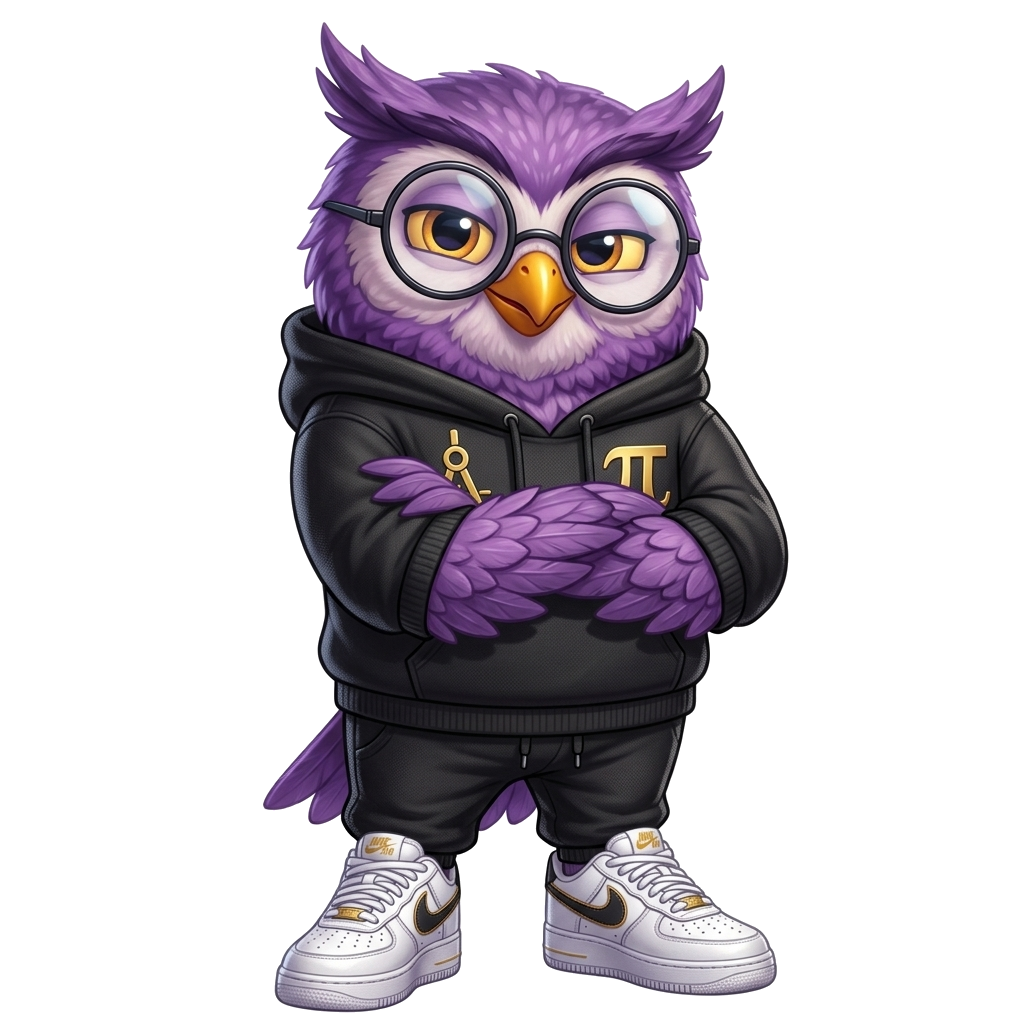
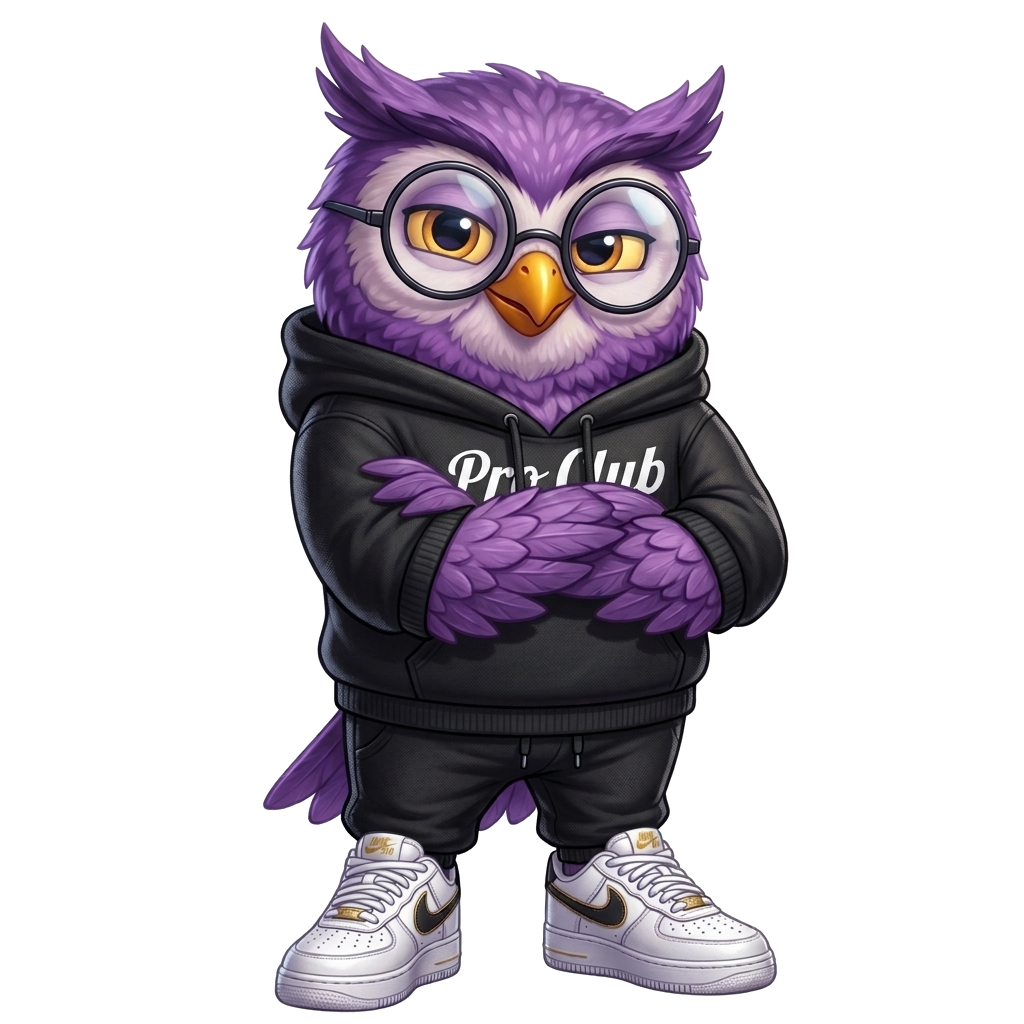
feat: add all 4 formative assessment slides to presentation, protect confidential differentiation, and update pro club owl

Changed region(s): [[0.4062, 0.4062, 0.6562, 0.5]]

diff --git a/src/components/LessonPlanViewer.jsx b/src/components/LessonPlanViewer.jsx
@@ -127,6 +127,7 @@ const LessonPlanViewer = ({ plan, weekPlans, viewerPin, adminName }) => {
     
     // Parse direct instruction and replace bold text with blanks
     let notesContent = plan.direct_instruction || 'No notes provided.';
+    notesContent = notesContent.split(/##+\s*(?:Tiered\s+)?Differentiation/i)[0].trim();
     notesContent = renderMath(notesContent);
     // Convert markdown to HTML but replace **bold** with fill in the blank lines
     
@@ -398,7 +399,8 @@ const LessonPlanViewer = ({ plan, weekPlans, viewerPin, adminName }) => {
         x: 0.8, y: 1.3, w: 8.4, h: 0.4,
         fontSize: 13, italic: true, color: COLOR_MUTED
       });
-      const doNowText = cleanMathText(p.do_now || 'Complete the Do Now on the board.');
+      const cleanDoNowLines = (p.do_now || 'Complete the Do Now on the board.').split('\n').filter(l => !l.trim().match(/^\*?Answer:/i)).join('\n');
+      const doNowText = cleanMathText(cleanDoNowLines);
       s.addText(doNowText, {
         x: 0.8, y: 1.8, w: 8.4, h: 3.3,
         fontSize: 16, color: COLOR_SLATE, valign: 'top', lineSpacing: 26
@@ -537,29 +539,53 @@ const LessonPlanViewer = ({ plan, weekPlans, viewerPin, adminName }) => {
     // 6. Direct Instruction Slides
     if (p.direct_instruction) {
       let diText = p.direct_instruction;
+      // Strip out any Differentiation and Lesson Purpose from student-facing slides
+      diText = diText.split(/##+\s*(?:Tiered\s+)?Differentiation/i)[0];
+      diText = diText.split(/##+\s*(?:Lesson Purpose|Our Why)/i)[0];
+
       if (p.date_start === '2026-09-21' && !diText.includes('telescope')) {
         diText = diText.replace(/## Direct Instruction\s*---/i, "## Launch: The Telescope\n---\nImagine you are looking at a star through a telescope. The star doesn't change its actual shape, but the lenses inside the telescope *scale* the image up so your eye can see it. Today, we are going to learn how to mathematically build that telescope.\n\n## Direct Instruction\n---");
       }
-      const blocks = diText.split(/(?=## )/);
+      const blocks = diText.split(/(?=##+ )/);
       blocks.forEach(block => {
         if (!block.trim()) return;
         let title = "Direct Instruction";
-        const tm = block.match(/## (.*?)\n/);
+        const tm = block.match(/##+ (.*?)\n/);
         if (tm) {
           title = tm[1].trim();
-          block = block.replace(/## .*?\n/, '');
+          block = block.replace(/##+ .*?\n/, '');
+        }
+        if (title.toLowerCase().includes('differentiation') || block.toLowerCase().includes('differentiation') || title.toLowerCase().includes('lesson purpose') || block.toLowerCase().includes('our why')) {
+          return;
         }
         block = block.replace(/^---\n/, '');
         const cleanContent = cleanMathText(block);
         if (!cleanContent) return;
 
-        const isEx = title.toLowerCase().includes('example');
-        const s = pres.addSlide();
-        addHeader(s, `Direct Instruction: ${title}`, isEx ? '5:00' : null);
-        s.addText(cleanContent, {
-          x: 0.8, y: 1.3, w: 8.4, h: 3.8,
-          fontSize: 15, color: COLOR_SLATE, valign: 'top', lineSpacing: 24
-        });
+        if (cleanContent.match(/\*\*Example\s*1/i) && cleanContent.match(/\*\*Example\s*2/i)) {
+          const exSplit = cleanContent.split(/(?=\*\*Example\s*2)/i);
+          const s1 = pres.addSlide();
+          addHeader(s1, `Direct Instruction: ${title} (Example 1)`, '5:00');
+          s1.addText(exSplit[0].trim(), {
+            x: 0.8, y: 1.3, w: 8.4, h: 3.8,
+            fontSize: 15, color: COLOR_SLATE, valign: 'top', lineSpacing: 24
+          });
+
+          const s2 = pres.addSlide();
+          addHeader(s2, `Direct Instruction: ${title} (Example 2)`, '5:00');
+          s2.addText(exSplit[1].trim(), {
+            x: 0.8, y: 1.3, w: 8.4, h: 3.8,
+            fontSize: 15, color: COLOR_SLATE, valign: 'top', lineSpacing: 24
+          });
+        } else {
+          const isEx = title.toLowerCase().includes('example');
+          const s = pres.addSlide();
+          addHeader(s, `Direct Instruction: ${title}`, isEx ? '5:00' : null);
+          s.addText(cleanContent, {
+            x: 0.8, y: 1.3, w: 8.4, h: 3.8,
+            fontSize: 15, color: COLOR_SLATE, valign: 'top', lineSpacing: 24
+          });
+        }
       });
     }
 
@@ -602,6 +628,25 @@ const LessonPlanViewer = ({ plan, weekPlans, viewerPin, adminName }) => {
       });
     }
 
+    // 9. CFU #2 (Cold Call)
+    if (p.checks_for_understanding && p.checks_for_understanding[1]) {
+      const cfu2 = p.checks_for_understanding[1];
+      const s = pres.addSlide();
+      addHeader(s, `9. Formative Assessment #2 (${cfu2.method || 'Cold Call'})`, '2:00');
+      s.addShape(pres.ShapeType.roundRect, {
+        x: 1.2, y: 1.8, w: 7.6, h: 2.5,
+        fill: { color: 'F0FDFA' }, line: { color: COLOR_TEAL, width: 2 }
+      });
+      s.addText(`Check for Understanding (${cfu2.method || 'Cold Call'}):`, {
+        x: 1.5, y: 2.0, w: 7.0, h: 0.4,
+        fontSize: 16, bold: true, color: COLOR_TEAL
+      });
+      s.addText(cleanMathText(cfu2.cfu), {
+        x: 1.5, y: 2.5, w: 7.0, h: 1.5,
+        fontSize: 20, bold: true, color: COLOR_SLATE, valign: 'top'
+      });
+    }
+
     // 9. Group Practice Problems (indices 2 to 5)
     if (p.structured_exemplars && p.structured_exemplars.length >= 6) {
       [2, 3, 4, 5].forEach((exIdx, gIdx) => {
@@ -609,6 +654,25 @@ const LessonPlanViewer = ({ plan, weekPlans, viewerPin, adminName }) => {
         const s = pres.addSlide();
         addHeader(s, `10. Group Practice (Problem ${gIdx + 1})`, '5:00');
         addProblemContent(s, ex);
+      });
+    }
+
+    // 10. CFU #3 (Warm Call)
+    if (p.checks_for_understanding && p.checks_for_understanding[2]) {
+      const cfu3 = p.checks_for_understanding[2];
+      const s = pres.addSlide();
+      addHeader(s, `11. Formative Assessment #3 (${cfu3.method || 'Warm Call'})`, '2:00');
+      s.addShape(pres.ShapeType.roundRect, {
+        x: 1.2, y: 1.8, w: 7.6, h: 2.5,
+        fill: { color: 'F0FDFA' }, line: { color: COLOR_TEAL, width: 2 }
+      });
+      s.addText(`Check for Understanding (${cfu3.method || 'Warm Call'}):`, {
+        x: 1.5, y: 2.0, w: 7.0, h: 0.4,
+        fontSize: 16, bold: true, color: COLOR_TEAL
+      });
+      s.addText(cleanMathText(cfu3.cfu), {
+        x: 1.5, y: 2.5, w: 7.0, h: 1.5,
+        fontSize: 20, bold: true, color: COLOR_SLATE, valign: 'top'
       });
     }
 
@@ -641,10 +705,29 @@ const LessonPlanViewer = ({ plan, weekPlans, viewerPin, adminName }) => {
       });
     }
 
+    // CFU #4 (Batch Call)
+    if (p.checks_for_understanding && p.checks_for_understanding[3]) {
+      const cfu4 = p.checks_for_understanding[3];
+      const s = pres.addSlide();
+      addHeader(s, `13. Formative Assessment #4 (${cfu4.method || 'Batch Call'})`, '2:00');
+      s.addShape(pres.ShapeType.roundRect, {
+        x: 1.2, y: 1.8, w: 7.6, h: 2.5,
+        fill: { color: 'F0FDFA' }, line: { color: COLOR_TEAL, width: 2 }
+      });
+      s.addText(`Check for Understanding (${cfu4.method || 'Batch Call'}):`, {
+        x: 1.5, y: 2.0, w: 7.0, h: 0.4,
+        fontSize: 16, bold: true, color: COLOR_TEAL
+      });
+      s.addText(cleanMathText(cfu4.cfu), {
+        x: 1.5, y: 2.5, w: 7.0, h: 1.5,
+        fontSize: 20, bold: true, color: COLOR_SLATE, valign: 'top'
+      });
+    }
+
     // 12. Exit Ticket Slide
     {
       const s = pres.addSlide();
-      addHeader(s, '13. Exit Ticket (Formative Assessment)', '5:00');
+      addHeader(s, '14. Exit Ticket', '5:00');
       s.addText('Directions: Complete independently without notes before the bell.', {
         x: 0.8, y: 1.25, w: 8.4, h: 0.35,
         fontSize: 13, italic: true, color: COLOR_MUTED
@@ -786,22 +869,29 @@ ${renderQuestionContent(ex, idx)}
       const diSlides = [];
       if (plan.direct_instruction) {
         let diText = plan.direct_instruction;
+        // Strip out any Differentiation and Lesson Purpose from student-facing slides
+        diText = diText.split(/##+\s*(?:Tiered\s+)?Differentiation/i)[0];
+        diText = diText.split(/##+\s*(?:Lesson Purpose|Our Why)/i)[0];
+
         // Inject telescope launch for 9/21
         if (plan.date_start === '2026-09-21' && !diText.includes('telescope')) {
            diText = diText.replace(/## Direct Instruction\s*---/i, "## Launch: The Telescope\n---\nImagine you are looking at a star through a telescope. The star doesn't change its actual shape, but the lenses inside the telescope *scale* the image up so your eye can see it. Today, we are going to learn how to mathematically build that telescope.\n\n## Direct Instruction\n---");
         }
         
         // Split by markdown headings
-        const blocks = diText.split(/(?=## )/);
+        const blocks = diText.split(/(?=##+ )/);
         
         blocks.forEach((block, idx) => {
           if (!block.trim()) return;
           
           let title = "Direct Instruction";
-          const titleMatch = block.match(/## (.*?)\n/);
+          const titleMatch = block.match(/##+ (.*?)\n/);
           if (titleMatch) {
              title = titleMatch[1].trim();
-             block = block.replace(/## .*?\n/, '');
+             block = block.replace(/##+ .*?\n/, '');
+          }
+          if (title.toLowerCase().includes('differentiation') || block.toLowerCase().includes('differentiation') || title.toLowerCase().includes('lesson purpose') || block.toLowerCase().includes('our why')) {
+             return;
           }
           block = block.replace(/^---\n/, ''); // remove stray dashes
 
@@ -864,7 +954,7 @@ ${renderQuestionContent(ex, idx)}
       { title: plan.topic ? plan.topic.replace(/\[.*?\]\s*/, '') : '', content: `<div style="display: flex; flex-direction: column; align-items: center; justify-content: center; padding: 40px 0; text-align: center;"><h2>Welcome to Class!</h2><p>Get ready to start.</p></div>` },
       { 
         title: "1. Spiraled Do Now", 
-        content: `**Directions:**\n${plan.do_now || ''}\n\n<div class="timer" onclick="startTimer(this, 5)">5:00</div>` 
+        content: `**Directions:**\n${(plan.do_now || '').split('\n').filter(l => !l.trim().match(/^\*?Answer:/i)).join('\n')}\n\n<div class="timer" onclick="startTimer(this, 5)">5:00</div>` 
       },
       { 
         title: "2. Classroom Expectations", 
@@ -930,21 +1020,34 @@ ${renderQuestionContent(ex, idx)}
         },
 ...diSlides,
       { 
-        title: "7. Formative Assessment #1", 
-        content: `**Check for understanding:**\n${cfuText}\n\n<div class="timer" onclick="startTimer(this, 2)">2:00</div>` 
+        title: `7. Formative Assessment #1 (${(plan.checks_for_understanding && plan.checks_for_understanding[0]?.method) || 'Turn & Talk'})`, 
+        content: `**Check for understanding (${(plan.checks_for_understanding && plan.checks_for_understanding[0]?.method) || 'Turn & Talk'}):**\n${(plan.checks_for_understanding && plan.checks_for_understanding[0]?.cfu) || cfuText}\n\n<div class="timer" onclick="startTimer(this, 2)">2:00</div>` 
       },
+      ...guidedSlides,
+      ...(plan.checks_for_understanding && plan.checks_for_understanding[1] ? [{
+        title: `9. Formative Assessment #2 (${plan.checks_for_understanding[1].method || 'Cold Call'})`,
+        content: `**Check for understanding (${plan.checks_for_understanding[1].method || 'Cold Call'}):**\n${plan.checks_for_understanding[1].cfu}\n\n<div class="timer" onclick="startTimer(this, 2)">2:00</div>`
+      }] : []),
       { 
         title: "Classroom Expectations (Reminder)", 
         content: expectationsContent 
       },
       ...groupSlides,
+      ...(plan.checks_for_understanding && plan.checks_for_understanding[2] ? [{
+        title: `11. Formative Assessment #3 (${plan.checks_for_understanding[2].method || 'Warm Call'})`,
+        content: `**Check for understanding (${plan.checks_for_understanding[2].method || 'Warm Call'}):**\n${plan.checks_for_understanding[2].cfu}\n\n<div class="timer" onclick="startTimer(this, 2)">2:00</div>`
+      }] : []),
       { 
         title: "Classroom Expectations (Reminder)", 
         content: expectationsContent 
       },
       ...problemsSlides,
+      ...(plan.checks_for_understanding && plan.checks_for_understanding[3] ? [{
+        title: `13. Formative Assessment #4 (${plan.checks_for_understanding[3].method || 'Batch Call'})`,
+        content: `**Check for understanding (${plan.checks_for_understanding[3].method || 'Batch Call'}):**\n${plan.checks_for_understanding[3].cfu}\n\n<div class="timer" onclick="startTimer(this, 2)">2:00</div>`
+      }] : []),
       { 
-        title: "13. Exit Ticket (Formative Assessment #3)", 
+        title: "14. Exit Ticket", 
         content: `**Directions:**\n${plan.exit_ticket || ''}\n\n<div class="timer" onclick="startTimer(this, 5)">5:00</div>` 
       }
     ];
@@ -1213,6 +1316,30 @@ ${renderQuestionContent(ex, idx)}
     setLoading(false);
   };
 
+  const getDifferentiationContent = (p) => {
+    if (!p) return null;
+    if (p.confidential_tiered_differentiation) return p.confidential_tiered_differentiation;
+    if (p.tiered_differentiation) return p.tiered_differentiation;
+    if (p.differentiation) return p.differentiation;
+    if (p.direct_instruction) {
+      const match = p.direct_instruction.match(/##+\s*(?:Confidential\s+)?(?:Tiered\s+)?Differentiation[\s\S]*/i);
+      if (match) {
+        return match[0]
+          .replace(/^##+\s*(?:Confidential\s+)?(?:Tiered\s+)?Differentiation\s*/i, '')
+          .replace(/^---\s*\n?/m, '')
+          .trim();
+      }
+    }
+    return null;
+  };
+
+  const getCleanDirectInstruction = (p) => {
+    if (!p) return '';
+    let di = p.direct_instruction || '';
+    di = di.split(/##+\s*(?:Confidential\s+)?(?:Tiered\s+)?Differentiation/i)[0].trim();
+    return di;
+  };
+
   const Section = ({ title, content, id, children }) => {
     const sectionComments = comments[id] || [];
     
@@ -1368,22 +1495,29 @@ ${p.independent_practice || 'Complete the assigned independent practice problems
       const diSlides = [];
       if (p.direct_instruction) {
         let diText = p.direct_instruction;
+        // Strip out any Differentiation and Lesson Purpose from student-facing slides
+        diText = diText.split(/##+\s*(?:Tiered\s+)?Differentiation/i)[0];
+        diText = diText.split(/##+\s*(?:Lesson Purpose|Our Why)/i)[0];
+
         // Inject telescope launch for 9/21
         if (p.date_start === '2026-09-21' && !diText.includes('telescope')) {
            diText = diText.replace(/## Direct Instruction\s*---/i, "## Launch: The Telescope\n---\nImagine you are looking at a star through a telescope. The star doesn't change its actual shape, but the lenses inside the telescope *scale* the image up so your eye can see it. Today, we are going to learn how to mathematically build that telescope.\n\n## Direct Instruction\n---");
         }
         
         // Split by markdown headings
-        const blocks = diText.split(/(?=## )/);
+        const blocks = diText.split(/(?=##+ )/);
         
         blocks.forEach((block, idx) => {
           if (!block.trim()) return;
           
           let title = "Direct Instruction";
-          const titleMatch = block.match(/## (.*?)\n/);
+          const titleMatch = block.match(/##+ (.*?)\n/);
           if (titleMatch) {
              title = titleMatch[1].trim();
-             block = block.replace(/## .*?\n/, '');
+             block = block.replace(/##+ .*?\n/, '');
+          }
+          if (title.toLowerCase().includes('differentiation') || block.toLowerCase().includes('differentiation') || title.toLowerCase().includes('lesson purpose') || block.toLowerCase().includes('our why')) {
+             return;
           }
           block = block.replace(/^---\n/, ''); // remove stray dashes
 
@@ -1474,13 +1608,28 @@ ${p.independent_practice || 'Complete the assigned independent practice problems
           })()
         },
 ...diSlides,
-        { title: "7. Formative Assessment #1", content: `**Check for understanding:**\n${cfuText}` },
+        { 
+          title: `7. Formative Assessment #1 (${(p.checks_for_understanding && p.checks_for_understanding[0]?.method) || 'Turn & Talk'})`, 
+          content: `**Check for understanding (${(p.checks_for_understanding && p.checks_for_understanding[0]?.method) || 'Turn & Talk'}):**\n${(p.checks_for_understanding && p.checks_for_understanding[0]?.cfu) || cfuText}` 
+        },
+        ...guidedSlides,
+        ...(p.checks_for_understanding && p.checks_for_understanding[1] ? [{
+          title: `9. Formative Assessment #2 (${p.checks_for_understanding[1].method || 'Cold Call'})`,
+          content: `**Check for understanding (${p.checks_for_understanding[1].method || 'Cold Call'}):**\n${p.checks_for_understanding[1].cfu}`
+        }] : []),
         { title: "Classroom Expectations (Reminder)", content: expectationsContent },
         ...groupSlides,
+        ...(p.checks_for_understanding && p.checks_for_understanding[2] ? [{
+          title: `11. Formative Assessment #3 (${p.checks_for_understanding[2].method || 'Warm Call'})`,
+          content: `**Check for understanding (${p.checks_for_understanding[2].method || 'Warm Call'}):**\n${p.checks_for_understanding[2].cfu}`
+        }] : []),
         { title: "Classroom Expectations (Reminder)", content: expectationsContent },
         ...problemsSlides,
-        
-        { title: "13. Exit Ticket (Formative Assessment #3)", content: `**Directions:**\n${p.exit_ticket || ''}` },
+        ...(p.checks_for_understanding && p.checks_for_understanding[3] ? [{
+          title: `13. Formative Assessment #4 (${p.checks_for_understanding[3].method || 'Batch Call'})`,
+          content: `**Check for understanding (${p.checks_for_understanding[3].method || 'Batch Call'}):**\n${p.checks_for_understanding[3].cfu}`
+        }] : []),
+        { title: "14. Exit Ticket", content: `**Directions:**\n${p.exit_ticket || ''}` },
       ];
 
       // Convert Markdown to HTML for all slides
@@ -1628,7 +1777,7 @@ ${p.independent_practice || 'Complete the assigned independent practice problems
       <Section id="objective_3m" title="3M Objective" content={plan.objective_3m} />
       <Section id="standard" title="Standard" content={STANDARD_MAP[plan.standard] || plan.standard} />
       <Section id="do_now" title="Do Now (Spiral Topics)" content={plan.do_now} />
-      <Section id="direct_instruction" title="Direct Instruction (Launch)" content={plan.direct_instruction} />
+      <Section id="direct_instruction" title="Direct Instruction (Launch)" content={getCleanDirectInstruction(plan)} />
       
         {/* Advanced Exemplar Section */}
         {plan.exemplar_image_url && (
@@ -1713,6 +1862,22 @@ ${p.independent_practice || 'Complete the assigned independent practice problems
 
       
       <Section id="criteria_for_success" title="Criteria for Success" content={plan.criteria_for_success} />
+      <Section id="tiered_differentiation" title="Confidential Tiered Differentiation" content={getDifferentiationContent(plan)}>
+        <div style={{ marginBottom: '10px' }}>
+          <span style={{ 
+            display: 'inline-block',
+            backgroundColor: '#ef4444', 
+            color: 'white', 
+            padding: '4px 10px', 
+            borderRadius: '4px', 
+            fontSize: '11px', 
+            fontWeight: 'bold',
+            letterSpacing: '0.5px'
+          }}>
+            CONFIDENTIAL — FERPA &amp; IEP / 504 PROTECTED (TEACHER &amp; ADMIN ONLY)
+          </span>
+        </div>
+      </Section>
       <Section id="exit_ticket" title="Exit Ticket" content={plan.exit_ticket} />
 
       {/* Legacy check to avoid errors if not defined in older data */}
